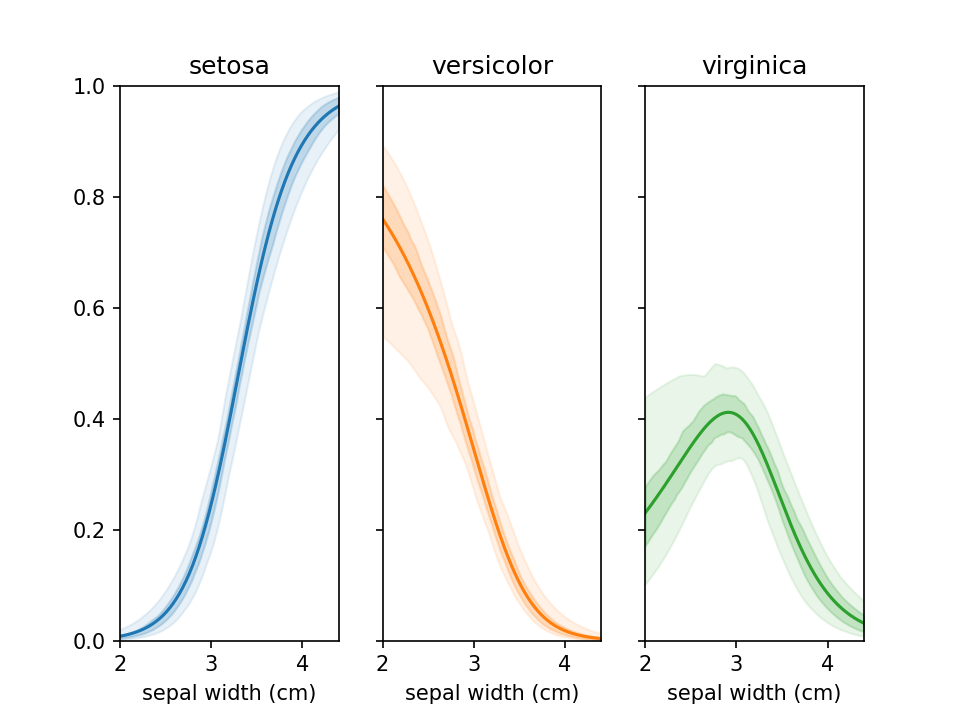
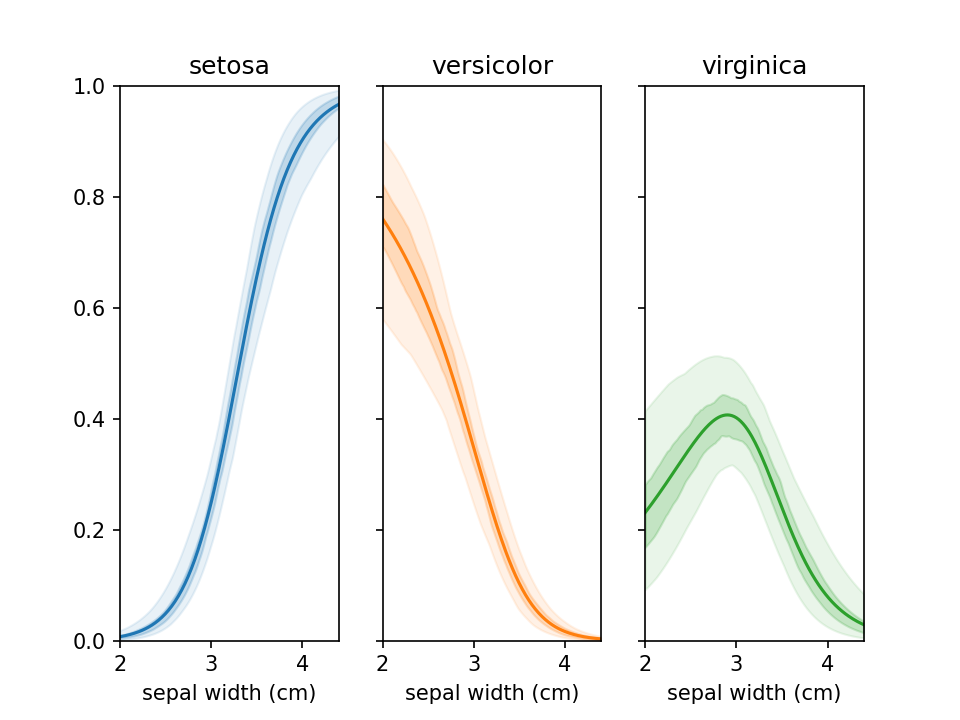
using scikit-learns function find function importance

diff --git a/src/lorepy/uncertainty.py b/src/lorepy/uncertainty.py
@@ -5,6 +5,7 @@ from pandas import DataFrame
 from sklearn.linear_model import LogisticRegression
 from sklearn.model_selection import train_test_split
 from sklearn.utils import resample
+from sklearn.inspection import permutation_importance
 
 from lorepy.lorepy import _get_area_df, _prepare_data
 
@@ -113,23 +114,22 @@ def _get_feature_importance(
                 f"Mode {mode} is unsupported, only jackknife and resample are valid modes"
             )
 
-        # Fit model with original data
-        lg_normal = LogisticRegression() if clf is None else clf
-        lg_normal.fit(X_keep, y_keep)
-        normal_accuracy = lg_normal.score(X_keep, y_keep)
-
-        # Create shuffled version by permuting only the x-feature (first column)
-        # Keep confounders intact since they represent controlled variables
-        X_shuffled = X_keep.copy()
-        X_shuffled[:, 0] = np.random.permutation(X_shuffled[:, 0])
-
-        # Fit model with shuffled x-feature
-        lg_shuffled = LogisticRegression() if clf is None else clf
-        lg_shuffled.fit(X_shuffled, y_keep)
-        shuffled_accuracy = lg_shuffled.score(X_shuffled, y_keep)
-
-        # Feature importance = performance drop when x-feature is shuffled
-        importance = normal_accuracy - shuffled_accuracy
+        # Fit model and use sklearn's permutation_importance
+        lg = LogisticRegression() if clf is None else clf
+        lg.fit(X_keep, y_keep)
+        
+        # Use permutation_importance to get feature importance for first feature (x)
+        # This handles proper train/test splits internally and avoids training data leakage
+        perm_result = permutation_importance(
+            lg, X_keep, y_keep, 
+            n_repeats=1,  # We handle iterations in outer loop
+            random_state=None,  # Allow randomness for each iteration
+            scoring='accuracy',
+            n_jobs=1
+        )
+        
+        # Extract importance for first feature (x-feature)
+        importance = perm_result.importances_mean[0]
         importance_scores.append(importance)
 
     importance_scores = np.array(importance_scores)
